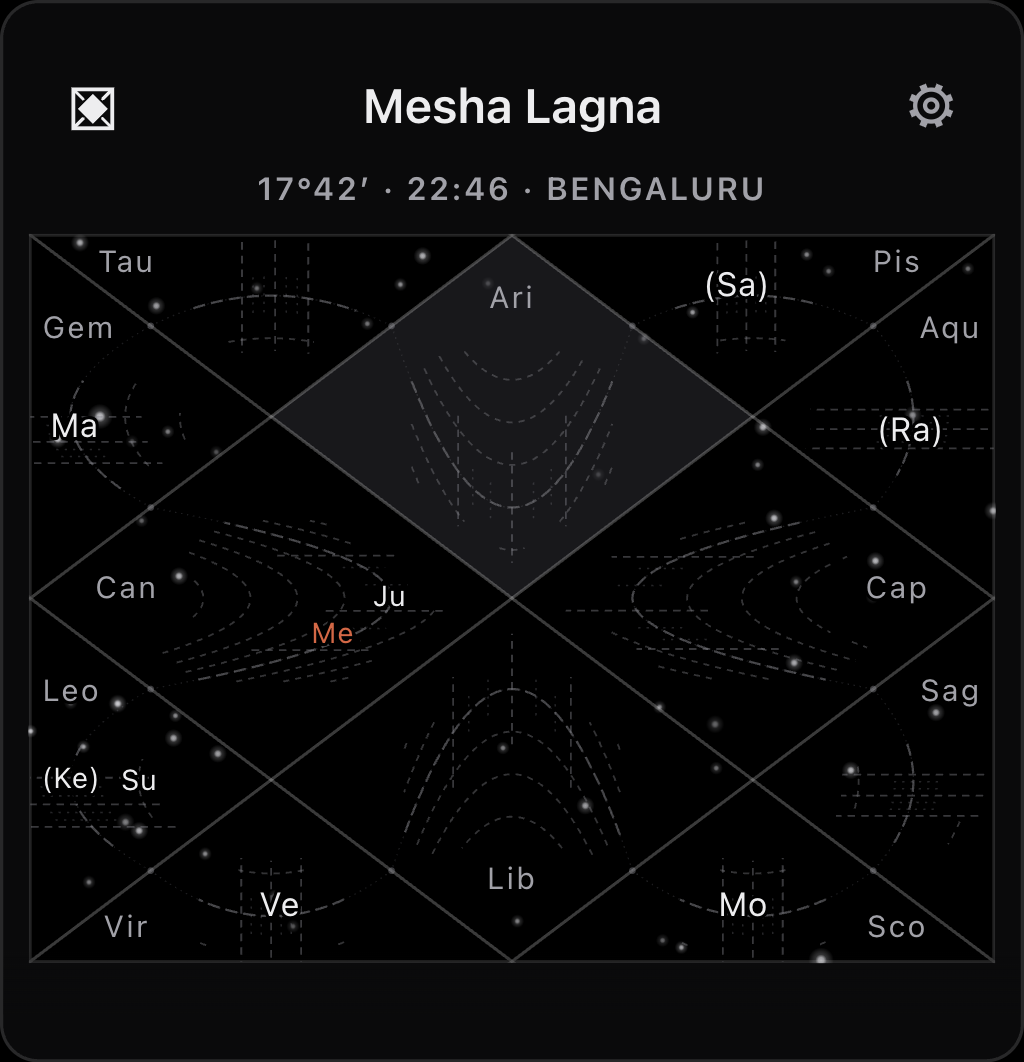
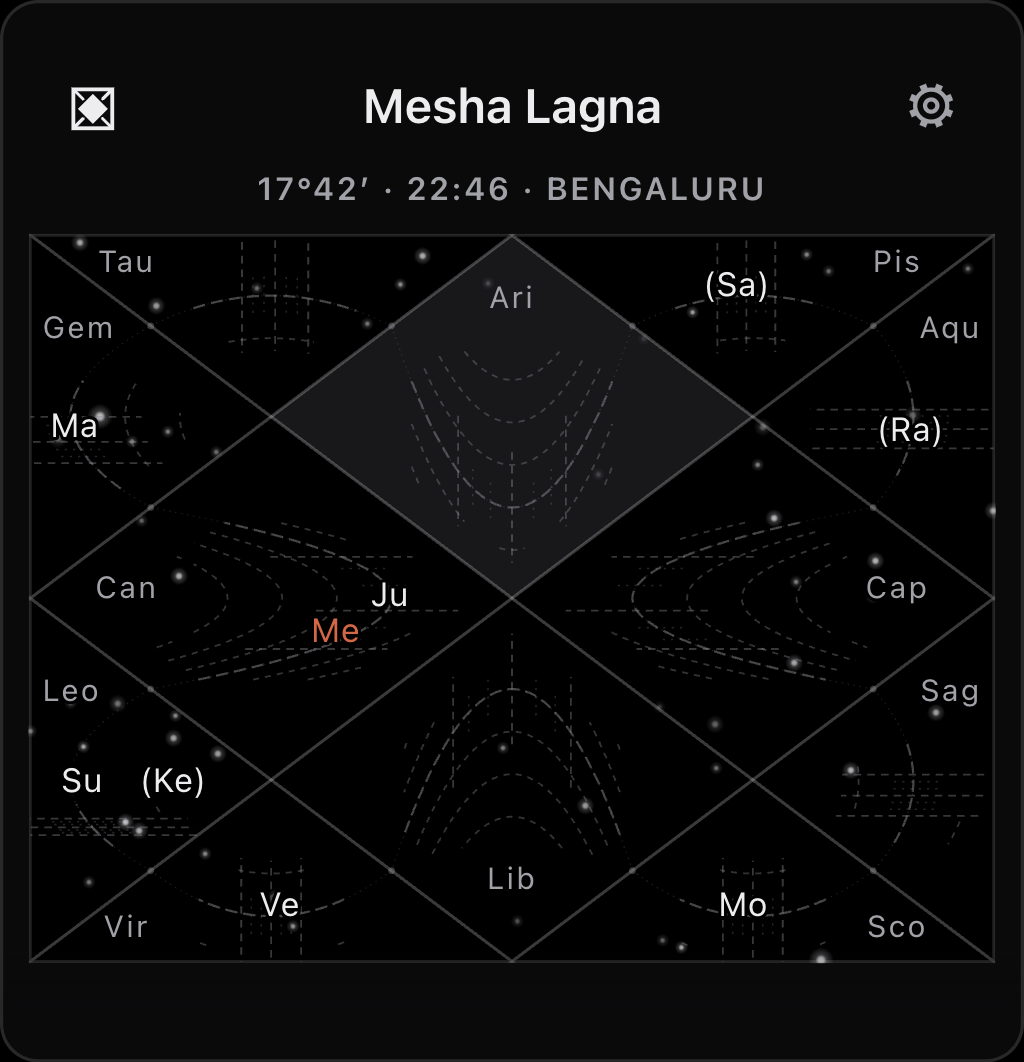
fix: one type size for every graha label, everywhere
A graha's name is two letters at 11px in a 318 point panel, and 11px is already
the smallest this app sets anything. Shrinking it turned a label that could be
read into one that had to be decoded - and it did so per compartment, so a chart
showed two or three sizes at once and the difference read as meaning something.
It meant only that one house was busier than another.

It had also got worse without being noticed. Dropping the degree share from 0.80
to 0.40 to buy visible motion took the band that full-size labels were standing
in: the panel's own chart went from nine labels at 11px to five at 11px and four
at 9.46px, and D60 to six of nine at 8.14px. Buying motion was paid for in type
size and nothing said so.

What one size costs is overlap, and only where the bodies genuinely are on top
of each other. Measured over the thirty chart cases: every chart that is not
deliberately crowded draws with no overlapping labels at all. The ones that do
are the seven- and eight-body compartments - D2 every day - where the choice was
never legible-and-separate but illegible-and-separate against legible-and-
overlapping.

Four labels now sit on a caption, in the two seven-in-a-triangle cases. That is
the last resort `withoutCaption` already documents: a body on the sign's name is
better than a body outside its own sign. It was previously avoided by shrinking
to 6.82px, which is the thing being removed.

Travel falls with it - 33.8 to 19.3 units median, a pixel every six seconds in
[…]

diff --git a/src/components/Chakra.tsx b/src/components/Chakra.tsx
@@ -619,7 +619,9 @@ function cluster(
   //
   // The floor is 0.62, which is 11px down to about 7. Below that the ink is
   // thinner than the frame it sits in.
-  for (const scale of [1, 0.86, 0.74, 0.62]) {
+  // One size. See PATH_SIZES: two sizes in one chart read as a distinction, and
+  // the only thing they distinguish is which house is busier.
+  for (const scale of [1]) {
     const laid = arrange(points, centre, count, caption, scale);
     if (laid) return { at: laid, scale };
   }
@@ -628,7 +630,7 @@ function cluster(
   // can hold one and allowed to overlap, because a body drawn outside its
   // compartment is *wrong* - it reads as standing in a sign it is not in - and
   // overlapping text is only hard to read.
-  return { at: squeezed(points, centre, count, caption, 0.62), scale: 0.62 };
+  return { at: squeezed(points, centre, count, caption, 1), scale: 1 };
 }
 
 /** Where a compartment's bodies go, and how large they are set. */
@@ -1094,7 +1096,26 @@ const PATH_PROBE = 48;
 
 /** The type sizes a compartment steps down through, largest first. The packed
  *  layout's own ladder (D-033): 11px, then 86, 74 and 62 per cent of it. */
-const PATH_SIZES = [1, 0.86, 0.74, 0.62];
+/** The type sizes a compartment may use. One.
+ *
+ * A graha's name is two letters at 11px in a 318 point panel, and 11px is
+ * already the smallest this app sets anything. Shrinking it made a label that
+ * could be read into one that had to be decoded - and worse, it did so
+ * *per compartment*, so a chart showed two or three sizes at once and the
+ * difference read as meaning something. It meant only that one house was
+ * busier than another.
+ *
+ * What this costs is overlap. A compartment that cannot hold its bodies at full
+ * size now draws them overlapping instead of drawing them small. Measured over
+ * the harness's thirty chart cases: every chart that is not deliberately
+ * crowded draws with no overlapping labels at all, and the ones that do overlap
+ * are the seven- and eight-body compartments - which is D2 every day, where the
+ * bodies genuinely are on top of each other in the sky.
+ *
+ * The ladder is kept as a list of one rather than deleted, because the search
+ * that reads it is the same search either way and a future decision to trade
+ * legibility for density is then one constant. */
+const PATH_SIZES = [1];
 
 function midpoint(a: Point, b: Point): Point {
   return { x: (a.x + b.x) / 2, y: (a.y + b.y) / 2 };
@@ -1595,8 +1616,8 @@ function planFor(
     if (rows) options.push({ at: rows, scale });
   }
   options.push({
-    at: squeezed(points, centre, bodies.length, caption, 0.62),
-    scale: 0.62,
+    at: squeezed(points, centre, bodies.length, caption, 1),
+    scale: 1,
   });
 
   const weighed = options.map((option) => {

diff --git a/crates/ephemeris/tests/golden.rs b/crates/ephemeris/tests/golden.rs
@@ -38,7 +38,13 @@ fn engine() -> MutexGuard<'static, Engine> {
             Mutex::new(engine)
         })
         .lock()
-        .expect("engine lock poisoned by an earlier test failure")
+        // A failing test panics while holding this, which poisons the mutex and
+        // makes every later test in the file fail with a message about the
+        // lock rather than about itself - one real failure reported as five,
+        // and the first one buried. The engine's C state is not damaged by a
+        // failed assertion, so the guard is taken anyway and the first failure
+        // stays the only failure.
+        .unwrap_or_else(|poisoned| poisoned.into_inner())
 }
 
 fn golden() -> &'static Value {
@@ -417,9 +423,20 @@ fn a_configuration_change_is_never_half_applied() {
     });
 
     let total = readings.load(Ordering::Relaxed);
+    // A sanity check that the race actually ran, not a performance assertion.
+    //
+    // This used to require more readings than flips, which is a statement about
+    // how fast this machine is: under load - another build running, which is
+    // exactly when a test suite runs - the readers get fewer turns and the test
+    // failed while the invariant it exists to protect was perfectly intact. It
+    // then panicked while holding the engine lock, poisoning it, so one flaky
+    // failure became five.
+    //
+    // The bar is now that the race happened at all. `mixed == 0` below is the
+    // assertion that matters and is not timing-dependent.
     assert!(
-        total > FLIPS,
-        "only {total} readings overlapped {FLIPS} changes; the race was never exercised"
+        total > 0,
+        "no readings overlapped {FLIPS} changes; the race was never exercised"
     );
     assert_eq!(
         mixed.load(Ordering::Relaxed),
